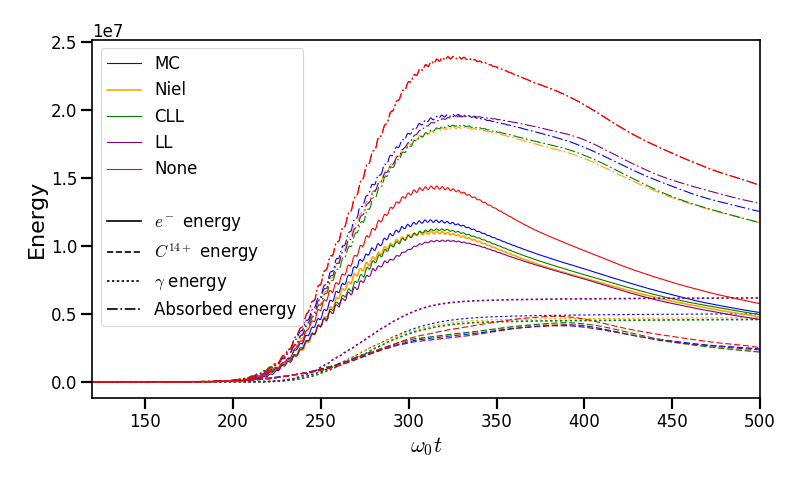
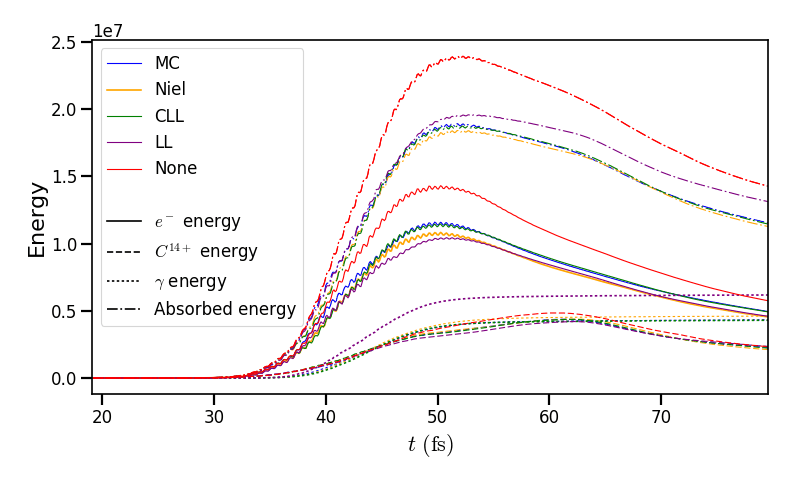
Radiation: - Correction load balancing - New figure and explanations sphinx doc

diff --git a/src/SmileiMPI/SmileiMPI.cpp b/src/SmileiMPI/SmileiMPI.cpp
@@ -587,7 +587,7 @@ void SmileiMPI::isend(Patch* patch, int to, int tag, Params& params)
         }
     }
 
-    maxtag += 2*patch->vecSpecies.size() + 1;
+    maxtag += 2*patch->vecSpecies.size();
 
     // Send the cumulated radiated energy
     if (params.hasMCRadiation ||
@@ -669,7 +669,7 @@ void SmileiMPI::recv(Patch* patch, int from, int tag, Params& params)
         }
     }
 
-    maxtag += 2*patch->vecSpecies.size() + 1;
+    maxtag += 2*patch->vecSpecies.size();
 
     // Receive the cumulated radiated energy
     if (params.hasMCRadiation ||

diff --git a/doc/Sphinx/radiation_loss.rst b/doc/Sphinx/radiation_loss.rst
@@ -458,8 +458,16 @@ moment of order 3 as explained in [Niel2017]_.
 Synchrotron 2D
 """"""""""""""""""""""""""""""""""""""""""""""""""""""""""""""""""""""""""""""""
 
-A bunch of electron evolves in a constant magnetic field orthogonal to their
-initial propagation direction.
+A bunch of electrons of initial momentum :math:`p_{-,0}`
+evolves in a constant magnetic field :math:`B` orthogonal
+to their initial propagation direction.
+In such a configuration, the electron bunch is supposed to rotate endlessly
+with the same radius :math:`R = p_{-,0} /e B` without radiation loss.
+However, the magnetic field will be so strong here that the electrons will
+radiate their energy as in a synchrotron facility.
+The initial quantum parameter is equal to
+:math:`\chi_- = \gamma_{-,0} B /m_e E_s`.
+
 This corresponds to two different scripts in the benchmark folder:
 
 * `tst2d_8_synchrotron_chi1.py`: This script tests and compares the corrected
@@ -470,10 +478,13 @@ This corresponds to two different scripts in the benchmark folder:
 In this section, we focus on the case with initial quantum parameter
 :math:`\chi = 0.1`.
 The magnetic field amplitude is :math:`B = 90 m \omega_r / e`.
-Initial electron Lorentz factor is around :math:`\gamma =450 mc`.
+Initial electron Lorentz factor is around
+:math:`\gamma_{-,0} = \varepsilon_{-,0}/mc^2 =  450`.
 
 Time evolution of the kinetic energy, the radiated energy and the total energy
-is shown in Fig. :numref:`synchrotron_scalar`.
+is shown in Fig. :numref:`synchrotron_scalar`. All radiation models provide
+similar evolution of these integrated quantities. The relative error on the
+total energy is around :math:`3 \times 10^{-9}`.
 
 .. _synchrotron_scalar:
 
@@ -484,6 +495,16 @@ is shown in Fig. :numref:`synchrotron_scalar`.
   energy are respectively plotted with solid, dashed and dotted lines for
   the Monte-Carlo (**MC**, blue), Niel (**Niel**, orange),
   corrected Landau-Lifshitz (**CLL**, green).
+
+The main difference between models can be understood by studying the
+particle trajectories and phase spaces. For this purpose, colormap of
+the normalized kinetic energy at :math:`25 \omega_r^{-1}` is shown in
+Fig. :numref:`synchrotron_x_y_gamma`. With continuous radiation loss
+(corrected Landau-Lifshitz case), the electron bunch rotates with a decreasing
+radius but the bunch keeps its original shape. The radiation only acts as a
+cooling mechanism.
+In the cases the Niel and the Monte-Carlo radiation models,
+the stochastic effects come into play and lead the bunch to diffuse.
 
 .. _synchrotron_x_y_gamma:
 
@@ -502,14 +523,49 @@ is shown in Fig. :numref:`synchrotron_scalar`.
   Time evolution of the electron energy distribution for the Monte-Carlo, the Niel
   and the corrected Landau-Lifshitz (**CLL**) models.
 
-Thin foil
+Thin foil 2D
 """"""""""""""""""""""""""""""""""""""""""""""""""""""""""""""""""""""""""""""""
 
-.. thin_foil_scalar:
+This case is not is the list of available benchmarks but we decided to present
+these results here as an example of simulation study.
+Here, we simulates the interaction of a fully-ionized carbon thin foil
+with an extremely intense plane wave in 2D. The thin foil in located at 4
+:math:`\mu\mathrm{m}` of the left border `xmin`.
+It starts with a linear preplasma of 1 :math:`\mu\mathrm{m}` followed with
+an uniform section of 3 :math:`\mu\mathrm{m}` of density 492 :math:`n_c`.
+The target is irradiated by a Gaussian plane wave of peak intensity
+:math:`a_0 = 270` corresponding to :math:`10^{23}\ \mathrm{Wcm^{-2}}` and FWHM 50 fs.
+The domain has a discretization of 64 cells per :math:`\mu\mathrm{m}` in
+the two directions x and y with 64 particles per cell.
+There is two species: electrons and carbon ions.
+Only electrons can radiate.
+Different simulations have been performed with the different radiation models.
+
+The time evolution of the electron kinetic energy, the carbon ion
+kinetic energy, the radiated energy and the total
+absorbed energy is shown in Fig. :numref:`thin_foil_scalar`.
+
+.. _thin_foil_scalar:
 
 .. figure:: _static/thin_foil_scalar.png
   :width: 18cm
 
+  Time evolution of the electron kinetic energy (solid lines), the carbon ion
+  kinetic energy (dashed line), the radiated energy (dotted line) and the total
+  absorbed energy by particle and radiation (dotted-dashed lines). These
+  quantities are plotted for the Monte-Carlo radiation model (**MC**, blue),
+  the Niel model (**Niel**, orange), the corrected Landau-Lifshitz model (**CLL**, green),
+  the classical Landau-Lifshitz model (**LL**, purple) and without radiation (**None**, red).
+
+.. _thin_foil_x_chi_ne:
+
+.. figure:: _static/thin_foil_x_chi_ne.png
+  :width: 18cm
+
+.. _thin_foil_x_px_ne:
+
+.. figure:: _static/thin_foil_x_px_ne.png
+  :width: 18cm
 
 VI. Performances
 ^^^^^^^^^^^^^^^^^^^^^^^^^^^^^^^^^^^^^^^^^^^^^^^^^^^^^^^^^^^^^^^^^^^^^^^^^^^^^^^^
@@ -565,7 +621,7 @@ Descriptions of the cases:
   with an extremely intense plane wave in 2D.
   The thin foil in located at 4 :math:`\mu\mathrm{m}` of the left border `xmin`.
   It starts with a linear preplasma of 1 :math:`\mu\mathrm{m}` followed with
-  a uniform section of 3 :math:`\mu\mathrm{m}` of density 492 :math:`n_c`.
+  an uniform section of 3 :math:`\mu\mathrm{m}` of density 492 :math:`n_c`.
   The target is irradiated by a Gaussian plane wave of peak intensity
   :math:`a_0 = 270` corresponding to :math:`10^{23}\ \mathrm{Wcm^{-2}}` and FWHM 50 fs.
   The domain has a discretization of 64 cells per :math:`\mu\mathrm{m}` in
